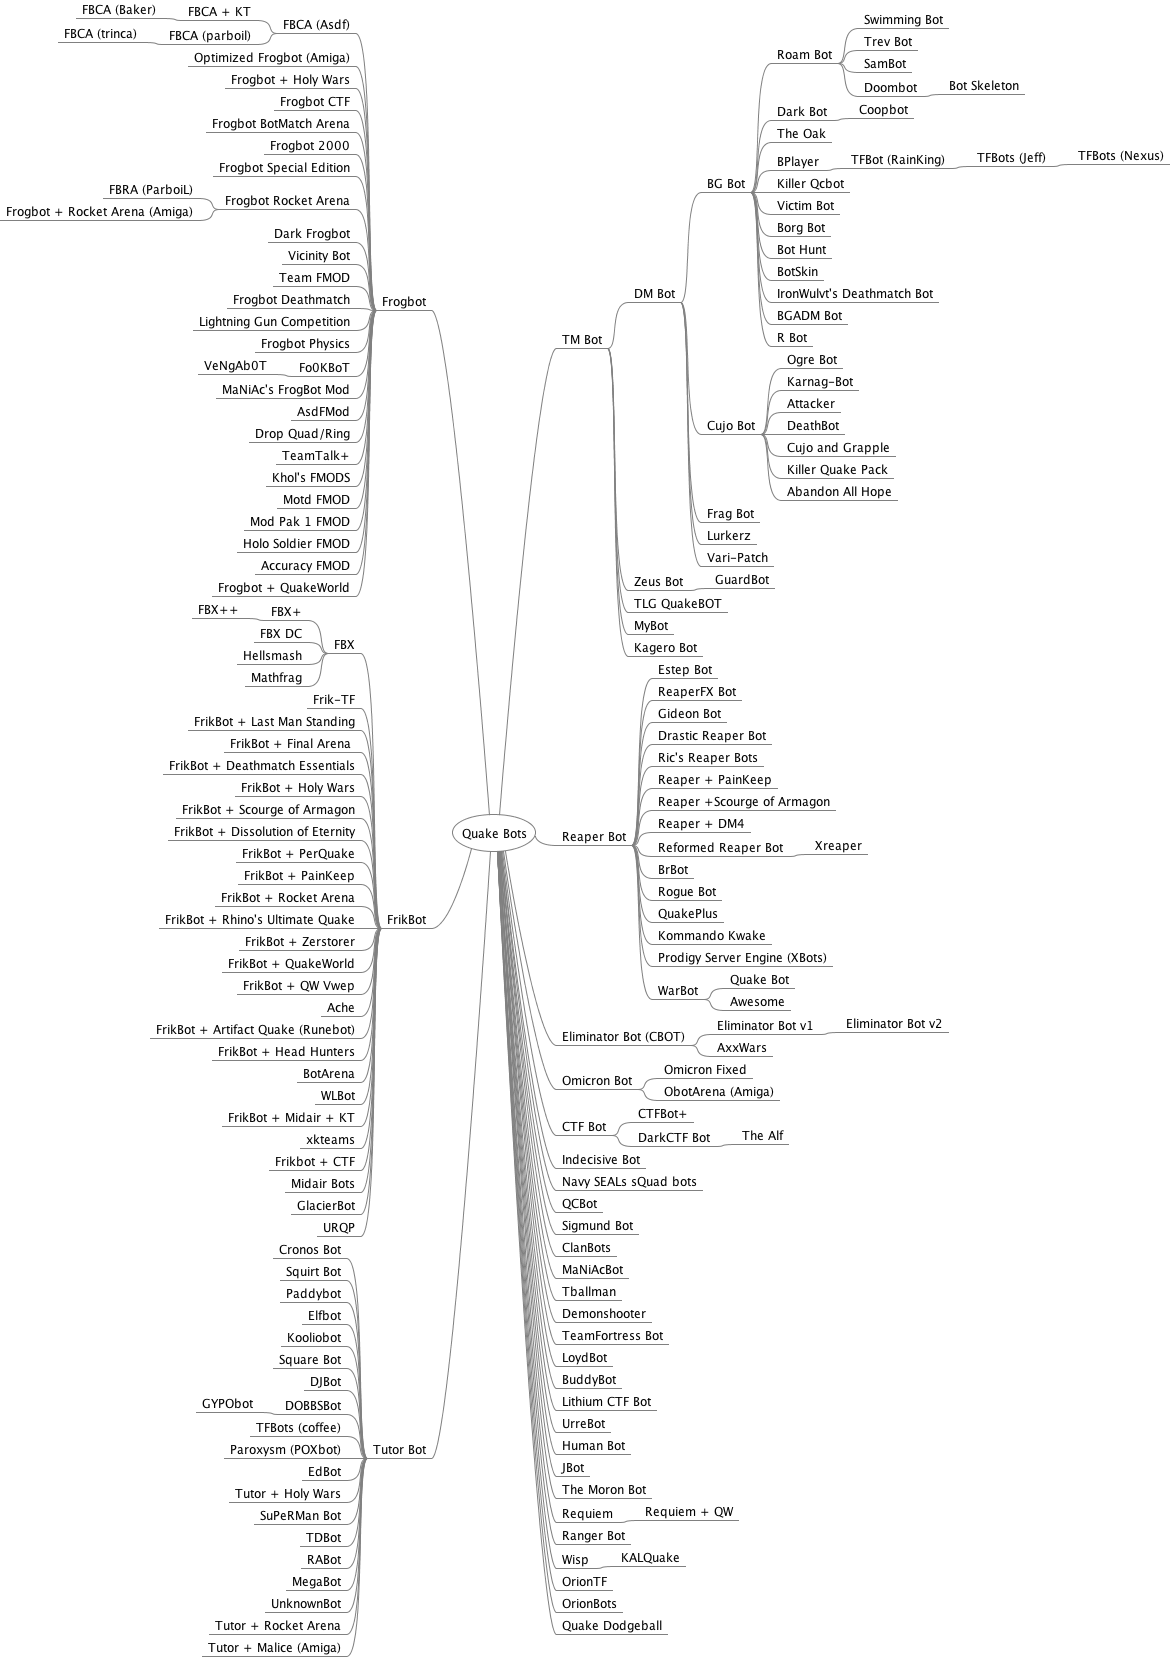
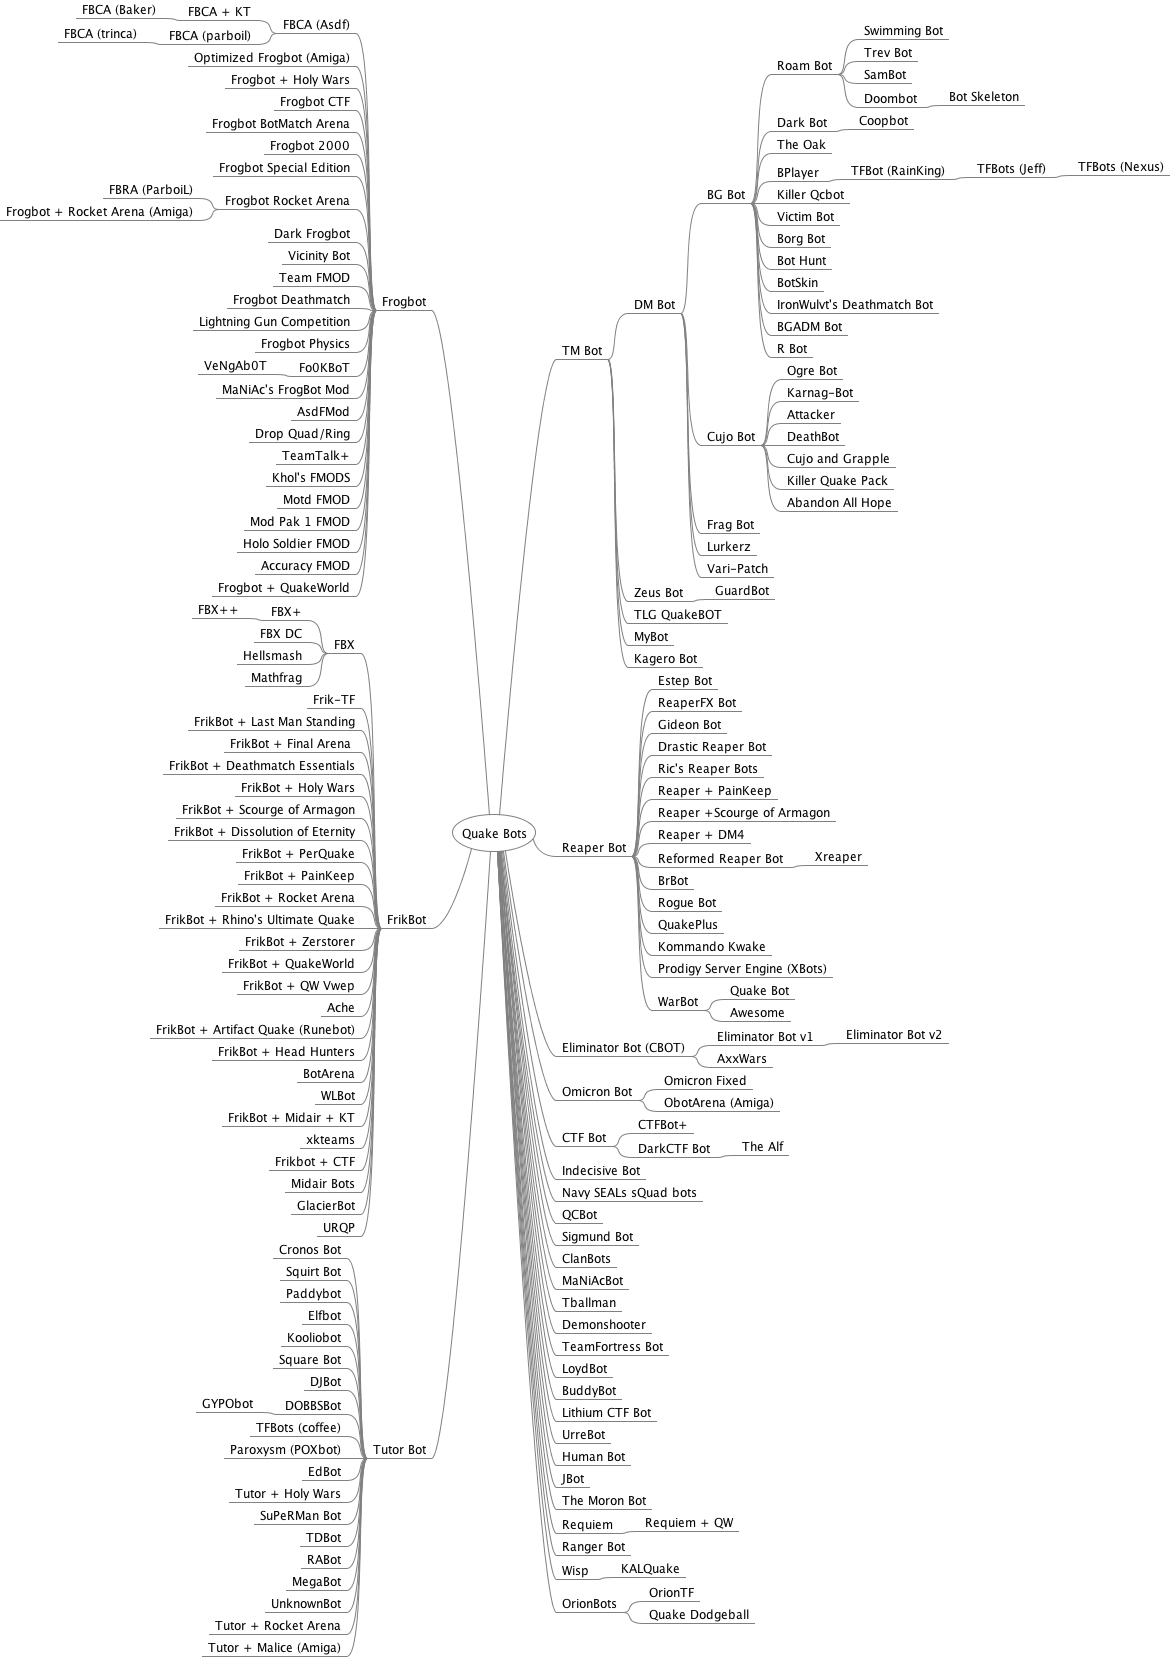
Updated list to mention bot name

diff --git a/research/mindmap/QuakeBots.mm b/research/mindmap/QuakeBots.mm
@@ -210,8 +210,9 @@
 <node CREATED="1622929965131" ID="ID_652083117" MODIFIED="1622929966278" POSITION="right" TEXT="Wisp">
 <node CREATED="1630615334346" ID="ID_1761106172" MODIFIED="1630615335059" TEXT="KALQuake"/>
 </node>
-<node CREATED="1630700547886" ID="ID_533652432" MODIFIED="1630700549450" POSITION="right" TEXT="OrionTF"/>
-<node CREATED="1625002699237" ID="ID_54039170" MODIFIED="1625002700141" POSITION="right" TEXT="OrionBots"/>
-<node CREATED="1626899953546" ID="ID_1539582619" MODIFIED="1626899954398" POSITION="right" TEXT="Quake Dodgeball"/>
+<node CREATED="1625002699237" ID="ID_54039170" MODIFIED="1625002700141" POSITION="right" TEXT="OrionBots">
+<node CREATED="1630700547886" ID="ID_533652432" MODIFIED="1630700549450" TEXT="OrionTF"/>
+<node CREATED="1626899953546" ID="ID_1539582619" MODIFIED="1626899954398" TEXT="Quake Dodgeball"/>
+</node>
 </node>
 </map>

diff --git a/README.md b/README.md
@@ -41,9 +41,9 @@ Alphabetical list of Quake bot names, authors, and local download links for all 
 Bot Name | Bot Author(s) | File
 --- | --- | ---
 Abandon All Hope (Cujo) | John McClure | [abnd2a.zip](bin/abnd2a.zip) ([txt](bin/abnd2a.txt))<br>[abandon2.zip](bin/abandon2.zip) ([txt](bin/abandon2.txt))<br>abandon1.zip
-Accuracy FMOD | Algirdas Kepezinskas aka "ZeCybEr" | accuracy.zip
-Ache | Athos Konkoran Kryn | [ache.zip](bin/ache.zip)
-Asdf's FMOD | Matt McChesney aka "asdf" | [asdfmod100.zip](bin/asdfmod100.zip)
+Accuracy FMOD (Frogbot) | Algirdas Kepezinskas aka "ZeCybEr" | accuracy.zip
+Ache (Frikbot) | Athos Konkoran Kryn | [ache.zip](bin/ache.zip)
+Asdf's FMOD (Frogbot) | Matt McChesney aka "asdf" | [asdfmod100.zip](bin/asdfmod100.zip)
 Attacker | Jonathan Geary | [attacker.zip](bin/attacker.zip) ([txt](bin/attacker.txt))
 Awesome (Warbot) | Brett King aka "BulkA" | [awesome.7z](bin/awesome.7z)
 AxxWars (Cujo, Eliminator) | Akke Monasso | [axxwars10.zip](bin/axxwars10.zip) ([txt](bin/axxwars10.txt))
@@ -52,7 +52,7 @@ BGBot | Robert DeFilippo III aka "Punisher" | [bgbot20a.zip](bin/bgbot20a.zip) (
 Borg Bot | Calvin Rien | [borg12.zip](bin/borg12.zip) ([txt](bin/borg12.txt))
 Bot Hunt | Douglas H. King aka "Sea4" | [bthnt10.zip](bin/bthnt10.zip) ([txt](bin/bthnt10.txt))
 Bot Player (BPlayer) | Wolfgang Lehrach aka "Wolf" | [bplayer2.zip](bin/bplayer2.zip)<br>bplayer1.zip ([txt](bin/bplayer1.txt))
-BotArena | Fabiano D. Amorim aka "Vegetous" | [botarena.zip](bin/botarena.zip)<br>[bt_scr.zip](bin/bt_scr.zip)
+BotArena (FrikBot) | Fabiano D. Amorim aka "Vegetous" | [botarena.zip](bin/botarena.zip)<br>[bt_scr.zip](bin/bt_scr.zip)
 BotSkin | Warren Cheung aka "WACko" | [btskn22.zip](bin/btskn22.zip) ([txt](bin/btskn22.txt))<br>botskn21.zip<br>[botskn20.zip](bin/botskn20.zip) ([txt](bin/botskn20.txt))<br>botskn19.zip<br>[botskn18.zip](bin/botskn18.zip) ([txt](bin/botskn18.txt))<br>botskn17.zip<br>botskn14.zip<br>botskn13.zip<br>botskn12.zip<br>[botskn10.zip](bin/botskn10.zip)
 BrBot | "DRaKuLL" | [brbot.7z](bin/brbot.7z) <br>[brbotqc.zip](bin/brbotqc.zip)<br>brbot.exe
 BuddyBot | "Parsec" | [bbot_b1.zip](bin/bbot_b1.zip) <br>[bbot_b11.zip](bin/bbot_b11.zip)
@@ -73,7 +73,7 @@ DM Bot | Nathaniel Gorham | [dmbot1.zip](bin/dmbot1.zip) ([txt](bin/dmbot1.txt))
 DOBBSBot | Stephen Dobbs | [dobbsbot15bwp.zip](bin/dobbsbot15bwp.zip)<br>dobbsbot15b.zip<br>[dobbsbot15a.zip](bin/dobbsbot15a.zip)
 Doombot | Roscoe A. Sincero aka "Legion" | [dmbt21b3.zip](bin/dmbt21b3.zip) ([txt](bin/dmbt21b3.txt))<br>dmbt21b1.zip<br>dmbt20b3.zip<br>dmbt20b2.zip<br>doombot.zip
 Drastic Reaper Bot | Mark Wheeler | [dreaper.zip](bin/dreaper.zip) ([txt](bin/dreaper.txt))<br>[dreaper1e.zip](bin/dreaper1e.zip)
-Drop Quad/Ring (FMOD) | Brian Mathiasen aka "EraZoR" | [quadring.zip](bin/quadring.zip)
+Drop Quad/Ring (Frogbot) | Brian Mathiasen aka "EraZoR" | [quadring.zip](bin/quadring.zip)
 EdBot | Edward Dawson aka "HotCakes" | [edbot0-04.zip](bin/edbot0-04.zip) <br>[edbotsrc0-04.zip](bin/edbotsrc0-04.zip)
 ELFBOt | "SkinSki" aka "MauveBib" | [elfbot.zip](bin/elfbot.zip)
 Eliminator Bot (CBot) | Cameron B. Newham | [elim14.zip](bin/elim14.zip) ([txt](bin/elim14.txt))<br>[elimsrc.zip](bin/elimsrc.zip)<br>elim13.zip<br>[elim12.zip](bin/elim12.zip) ([txt](bin/elim12.txt))<br>[elimtst1.zip](bin/elimtst1.zip) <br>[elim11.zip](bin/elim11.zip) ([txt](bin/elim11.txt))<br>elim10.zip ([txt](bin/elim10.txt))
@@ -123,44 +123,44 @@ GlacierBot | Rainier Rapera aka "IceDagger" | [gb027b.zip](bin/gb027b.zip)<br>gb
 GuardBot | Peter van Wingerden | [grdbot23.zip](bin/grdbot23.zip) ([txt](bin/grdbot23.txt))<br>grdbot13.zip<br>guardbot.zip
 GYPObot | Stephen Dobbs | [gypobot.zip](bin/gypobot.zip)
 Hellsmash | Khin Mannering aka "Dr. Shadowborg" | [qsr04apatch1.7z](bin/qsr04apatch1.7z)<br>[qsr04a.7z](bin/qsr04a.7z)<br>[qsrbeta3a.zip](bin/qsrbeta3a.zip)<br>[qsrbeta3a_src.zip](bin/qsrbeta3a_src.zip)<br>[qsrbeta3x.zip](bin/qsrbeta3x.zip)<br>[qsrbeta3.zip](bin/qsrbeta3.zip)<br>qsrbeta1b.zip<br>qsrbeta1.zip
-Holo Soldier FMOD | Algirdas Kepezinskas aka "ZeCybEr" | holomod.zip
+Holo Soldier FMOD (Frogbot) | Algirdas Kepezinskas aka "ZeCybEr" | holomod.zip
 Human Bot (Hbot) | Jeffrey Lee | [hbot.zip](bin/hbot.zip)
 Indecisive Bot (Gyrobot) | Aaron Logue aka "Gyro Gearloose" | [gyrobot.zip](bin/gyrobot.zip) ([txt](bin/gyrobot.txt))<br>[gbotsrc.zip](bin/gbotsrc.zip)
 IronWulvt's Deathmatch Bot | Ben Garrod aka "IronWulvt" | [iwbot21.zip](bin/iwbot21.zip) ([txt](bin/iwbot21.txt))<br>iwbot20.zip<br>[iwbot16.zip](bin/iwbot16.zip)<br>iwbot15.zip<br>[iwbot1.zip](bin/iwbot1.zip) ([txt](bin/iwbot1.txt))
 JBot | Jeffrey Lee | [jbot.zip](bin/jbot.zip)
 Kagero Bot | "The Kwanster" | [kagero.zip](bin/kagero.zip)
-KALQuake | Kenneth Livingston aka "-=CT=-KALWeb " | [kal_qk-p.zip](bin/kal_qk-p.zip) ([txt](bin/kal_qk-p.txt))<br>[kal_qk-s.zip](bin/kal_qk-s.zip) ([txt](bin/kal_qk-s.txt))
+KALQuake (Wisp) | Kenneth Livingston aka "-=CT=-KALWeb " | [kal_qk-p.zip](bin/kal_qk-p.zip) ([txt](bin/kal_qk-p.txt))<br>[kal_qk-s.zip](bin/kal_qk-s.zip) ([txt](bin/kal_qk-s.txt))
 KarNag Bot | Ken Madlener | [knbot45.zip](bin/knbot45.zip) ([txt](bin/knbot45.txt))<br>[knbot03.zip](bin/knbot03.zip)
-Khol's FMODS | "Khol" | kfmod.zip
+Khol's FMODS (Frogbot) | "Khol" | kfmod.zip
 Killer Qcbot | William  Ravaine aka "Killer-Sub" | [kqcbots095b.zip](bin/kqcbots095b.zip) ([txt](bin/kqcbots095b.txt))<br>kqcbotsource.zip
-Killer Quake Pack (KQP) | Howard Roy aka "Solo" | [kqp220z.zip](bin/kqp220z.zip) ([txt](bin/kqp220z.txt))<br>[kqp210z.zip](bin/kqp210z.zip)<br>[kqp200z.zip](bin/kqp200z.zip) ([txt](bin/kqp200z.txt))<br>[kqp100.zip](bin/kqp100.zip)<br>[killer90.zip](bin/killer90.zip) ([txt](bin/killer90.txt))<br>killer87.zip<br>killer86b.zip<br>killer86.zip<br>[killer85.zip](bin/killer85.zip)<br>killer80.zip
-Kommando Kwake | Andreas M. and Stefan M. | kok220.zip<br>kok210.zip<br>kok2.zip
+Killer Quake Pack (KQP) (Zeus, Cujo) | Howard Roy aka "Solo" | [kqp220z.zip](bin/kqp220z.zip) ([txt](bin/kqp220z.txt))<br>[kqp210z.zip](bin/kqp210z.zip)<br>[kqp200z.zip](bin/kqp200z.zip) ([txt](bin/kqp200z.txt))<br>[kqp100.zip](bin/kqp100.zip)<br>[killer90.zip](bin/killer90.zip) ([txt](bin/killer90.txt))<br>killer87.zip<br>killer86b.zip<br>killer86.zip<br>[killer85.zip](bin/killer85.zip)<br>killer80.zip
+Kommando Kwake (Reaper) | Andreas M. and Stefan M. | kok220.zip<br>kok210.zip<br>kok2.zip
 Kooliobot | Robert de Heus aka "Koolio" | [kooliobot.zip](bin/kooliobot.zip)<br>koolio.zip
-Lightning Gun Competition (LGC) | Phil Romov aka "peheyele" | [lgc3.zip](bin/lgc3.zip)<br>[lgc2c.zip](bin/lgc2c.zip)<br>[lgc2.zip](bin/lgc2.zip)<br>[lgc.zip](bin/lgc.zip)
+Lightning Gun Competition (LGC) (Frogbot) | Phil Romov aka "peheyele" | [lgc3.zip](bin/lgc3.zip)<br>[lgc2c.zip](bin/lgc2c.zip)<br>[lgc2.zip](bin/lgc2.zip)<br>[lgc.zip](bin/lgc.zip)
 Lithium CTF Bot | Juan Ignacio Rava aka "Johnny" | [lith091c.zip](bin/lith091c.zip)
 LoydBot | Loyd aka "Juninho" | [lbotv10.zip](bin/lbotv10.zip)
 Lurkerz | Ron Goff and Jon Little | [lrkrz_01.zip](bin/lrkrz_01.zip) ([txt](bin/lrkrz_01.txt))
 MaNiAc's FrogBot MOD (lag simulation) | Michael Turitzin aka "MaNiAc" | [lagmod.zip](bin/lagmod.zip)
 MaNiAcBot | Michael Turitzin aka "MaNiAc" | [maniacbt.zip](bin/maniacbt.zip) ([txt](bin/maniacbt.txt))<br>maniacbt12.zip<br>fbmod.zip
-Mathfrag | Khin Mannering aka "Dr. Shadowborg" | [mlx20b.zip](bin/mlx20.zip)
+Mathfrag (Frikbot) | Khin Mannering aka "Dr. Shadowborg" | [mlx20b.zip](bin/mlx20.zip)
 MegaBot | "Vic" | [megabot.zip](bin/megabot.zip)
 Midair Bots | Benjamin Darling aka "Electro" and "Vomit" | [midair_qwbot.rar](bin/midair_qwbot.rar)<br>[midairbots_all.zip](bin/midairbots_all.zip)<br>[midairbots.zip](bin/midairbots.zip)
-Mod Pak 1 FMOD | "Neophyte" | mpak1v12.zip
-Motd FMOD | Algirdas Kepezinskas aka "ZeCybEr" | motd.zip
+Mod Pak 1 FMOD (Frogbot) | "Neophyte" | mpak1v12.zip
+Motd FMOD (Frogbot) | Algirdas Kepezinskas aka "ZeCybEr" | motd.zip
 MyBot | Stephen Vanterpool | [mybot16.zip](bin/mybot16.zip) ([txt](bin/mybot16.txt))<br>[mybot13a.zip](bin/mybot13a.zip) ([txt](bin/mybot13a.txt))<br>[mybot12.zip](bin/mybot12.zip) ([txt](bin/mybot12.txt))<br>[mybot11.zip](bin/mybot11.zip) ([txt](bin/mybot11.txt))<br>[mybot.zip](bin/mybot.zip) ([txt](bin/mybot.txt))
-Navy SEALs sQuad bots | William van der Sterren | [nseal201.zip](bin/nseal201.zip)<br>sqdbt201.zip
-ObotArena (Amiga) | Christian Michael aka "surgeon" | [obotarena.lha](bin/obotarena.lha)
+Navy SEALs (Squad Bots) | William van der Sterren | [nseal201.zip](bin/nseal201.zip)<br>sqdbt201.zip
+ObotArena (Amiga) (Omicron) | Christian Michael aka "surgeon" | [obotarena.lha](bin/obotarena.lha)
 Ogre Bot | "Lava Man" | [ogrebot.zip](bin/ogrebot.zip) ([txt](bin/ogrebot.txt))
 Omicron Bot | Jan Paul van Waveren aka "Mr. Elusive" and Miklos de Rijk aka "H2SO4" | [obots102.zip](bin/obots102.zip)<br>[obots102.sit](bin/obots102.sit)<br>[obots101.zip](bin/obots101.zip)<br>obots101.sit<br>obots101.hqx<br>obots100.zip<br>obots100.sit
 Omicron Fixes | Joel Baxter aka "Johnny Law" | [obots102-fixed.zip](bin/obots102-fixed.zip)
-Optimized Frogbot qboost3 (Amiga) | Christian Michael aka "surgeon" | [frogbot.lha](bin/frogbot.lha) ([txt](bin/frogbot.txt))
-Orion Team Fortress (OrionTF) | "Orion" | [oriontf_beta4.zip](bin/oriontf_beta4.zip)<br>[oriontf_beta3.zip](bin/oriontf_beta3.zip)<br>[oriontf_beta2.zip](bin/oriontf_beta2.zip)<br>[oriontf.zip](bin/oriontf.zip)
+Optimized Frogbot (Amiga) | Christian Michael aka "surgeon" | [frogbot.lha](bin/frogbot.lha) ([txt](bin/frogbot.txt))
+Orion Team Fortress (OrionTF) (OrionBots) | "Orion" | [oriontf_beta4.zip](bin/oriontf_beta4.zip)<br>[oriontf_beta3.zip](bin/oriontf_beta3.zip)<br>[oriontf_beta2.zip](bin/oriontf_beta2.zip)<br>[oriontf.zip](bin/oriontf.zip)
 OrionBots | "Orion" | [orionbots4rel.zip](bin/orionbots4rel.zip)<br>[orionbots_v2.zip](bin/orionbots_v2.zip)<br>[orionbots_qc_beta5.zip](bin/orionbots_qc_beta5.zip)
 Paddybot | Patrick Stimson aka "sniper" | paddybot02.zip<br>paddybot.zip
-Paroxysm (POXbot) | Frank Condello aka "pOx" | [paroxysm.zip](bin/paroxysm.zip)<br>[pox120b.zip](bin/pox120b.zip)<br>[pxsrc120.zip](bin/pxsrc120.zip)<br>[pox111b2.zip](bin/pox111b2.zip)<br>[pox111b.zip](bin/pox111b.zip)<br>[pox102b.zip](bin/pox102b.zip)<br>[pxqc102b.zip](bin/pxqc102b.zip)<br>[pox101bu.zip](bin/pox101bu.zip)<br>[pox_100.zip](bin/pox_100.zip)<br>[poxqc100.zip](bin/poxqc100.zip)<br>[pox_04b2.zip](bin/pox_04b2.zip)
-Prodigy Server Engine (XBots) | David Rodgers | prodigy35b1.zip
+Paroxysm (POXbot) (Tutorbot) | Frank Condello aka "pOx" | [paroxysm.zip](bin/paroxysm.zip)<br>[pox120b.zip](bin/pox120b.zip)<br>[pxsrc120.zip](bin/pxsrc120.zip)<br>[pox111b2.zip](bin/pox111b2.zip)<br>[pox111b.zip](bin/pox111b.zip)<br>[pox102b.zip](bin/pox102b.zip)<br>[pxqc102b.zip](bin/pxqc102b.zip)<br>[pox101bu.zip](bin/pox101bu.zip)<br>[pox_100.zip](bin/pox_100.zip)<br>[poxqc100.zip](bin/poxqc100.zip)<br>[pox_04b2.zip](bin/pox_04b2.zip)
+Prodigy Server Engine (XBots) (Reaper) | David Rodgers | prodigy35b1.zip
 Quake Bot (QBot) | Muhammad Hidayat Bin Sman aka "Grinder" | [qbot11.zip](bin/qbot11.zip) ([txt](bin/qbot11.txt))
-Quake Dodgeball | Brendan aka "Trickle" and "Orion" | [quake_dodgeball_v1.2.6.zip](bin/quake_dodgeball_v1.2.6.zip)<br>[db_src_2016.zip](bin/db_src_2016.zip)<br>[quake_dodgeball_1.1.zip](bin/quake_dodgeball_1.1.zip)
+Quake Dodgeball (OrionBots) | Brendan aka "Trickle" and "Orion" | [quake_dodgeball_v1.2.6.zip](bin/quake_dodgeball_v1.2.6.zip)<br>[db_src_2016.zip](bin/db_src_2016.zip)<br>[quake_dodgeball_1.1.zip](bin/quake_dodgeball_1.1.zip)
 QuakePlus | Alexander Vinnikova aka "plus" | [qplus.zip](bin/qplus.zip) ([txt](bin/qplus.txt))
 R Bot | Ross Johnson aka "ColdKill" | [rbot70.zip](bin/rbot70.zip) ([txt](bin/rbot70.txt))<br>[rbot20.zip](bin/rbot20.zip) ([txt](bin/rbot20.txt))<br>rbot.zip
 RABot | Rodrigo Marx aka "Shooter" | [mwrrabot222cl.zip](bin/mwrrabot222cl.zip)<br>[rabot.zip](bin/rabot.zip)
@@ -186,14 +186,14 @@ Target Player Place (Place Bot) | "Vengence" | [place2.zip](bin/place2.zip) ([tx
 Tballman | "Mother" | [tballman.zip](bin/tballman.zip) ([txt](bin/tballman.txt))
 TD-BOT | ? | tdbot1_0.zip
 TD2 Mech Bot | ? | [mech.zip](bin/mech.zip)
-Team FMOD | "Shelob" | stfm10.zip
+Team FMOD (Frogbot) | "Shelob" | stfm10.zip
 Team Fortress (TFBot) | Jeff aka "wattsup" | [tfbot077.zip](bin/tfbot077.zip)<br>[tfbot076.zip](bin/tfbot076.zip)
 Team Fortress (TFBot) | Joern Strombach aka "Nexus" | [tfbot080.zip](bin/tfbot080.zip)
 Team Fortress (TFBot) | Wolfgang Lehrach aka "RainKing" | tfb-v07.zip
 Team Fortress + Frikbot (Frik-TF) | Raymond Martineau | friktf-051901.zip<br>[friktf-092800.zip](bin/friktf-092800.zip)<br>[friktf-092800-src.zip](bin/friktf-092800-src.zip)<br>friktf-092800-qw.zip<br>friktf-092800.tar.gz<br>[friktf-051800.zip](bin/friktf-051800.zip)<br>[friktf-051800-qw.zip](bin/friktf-051800-qw.zip)<br>[friktf-051800-src.zip](bin/friktf-051800-src.zip)<br>frik-tf.zip<br>[friktfqw.zip](bin/friktfqw.zip)
 Team Fortress + Tutor | Darryl Atchison aka "coffee" | [tf_bots07.zip](bin/tf_bots07.zip)
 Team Fortress Bot  | Valery Schedrin aka "Forthpick" | [teamfbot.zip](bin/teamfbot.zip)
-TeamTalk+ (FMOD) | Algirdas Kepezinskas aka "ZeCybEr" | [ttalk.zip](bin/ttalk.zip)
+TeamTalk+ FMOD (Frogbot) | Algirdas Kepezinskas aka "ZeCybEr" | [ttalk.zip](bin/ttalk.zip)
 The Alf | Bjorn-Erik Solli aka "Jack O. Trade" | nnctf.zip<br>nnsource.zip
 The Lone Gunmen QuakeBOT (Larva) | James Cullen aka "Jaymz" and Chris Cullen aka "Incubus" | [tlgbot.zip](bin/tlgbot.zip) ([txt](bin/tlgbot.txt))
 The Moron Bot | Rich Whitehouse aka "thefatal" | [mbr1.zip](bin/mbr1.zip)<br>[mbr1_src.zip](bin/mbr1_src.zip)
@@ -205,17 +205,17 @@ Tutor Bot + Holy Wars | Connor Caple aka "RiEvEr" | [holy_tb.zip](bin/holy_tb.zi
 Tutor Bot + Malice (Amiga) | Christian Michael aka "surgeon" | [malicemod.lha](bin/malicemod.lha) ([txt](bin/malicemod.txt))
 Tutor Bot + Rocket Arena | Connor Caple aka "RiEvEr" | [qrabot002.zip](bin/qrabot002.zip)<br>qrabot001.zip
 Tutor Bot | Darryl Atchison aka "coffee" | [tutor.zip](bin/tutor.zip)
-Ultimate Regular Quake Patch (URQP) | Matthias Buecher aka "Maddes" | [urqp106a.zip](bin/urqp106a.zip)<br>[urqp106.zip](bin/urqp106.zip)<br>[urqp105.zip](bin/urqp105.zip)<br>[urqp104a.zip](bin/urqp104a.zip)
+Ultimate Regular Quake Patch (URQP) (Frikbot) | Matthias Buecher aka "Maddes" | [urqp106a.zip](bin/urqp106a.zip)<br>[urqp106.zip](bin/urqp106.zip)<br>[urqp105.zip](bin/urqp105.zip)<br>[urqp104a.zip](bin/urqp104a.zip)
 UnknownBot | Brian L. | [ubot14.zip](bin/ubot14.zip)
 UrreBot | Marko Permanto aka "Urre" | [urrebot20050820.zip](bin/urrebot20050820.zip)<br>[urrebot20050813.zip](bin/urrebot20050813.zip)<br>[wayboxedit20050813.zip](bin/wayboxedit20050813.zip)
-Vari-Patch | Chris Millward | var19.zip ([txt](bin/var19.txt))<br>var18.zip ([txt](bin/var18.txt))<br>var17.zip<br>var14.zip ([txt](bin/var14.txt))
+Vari-Patch (DMBot) | Chris Millward | var19.zip ([txt](bin/var19.txt))<br>var18.zip ([txt](bin/var18.txt))<br>var17.zip<br>var14.zip ([txt](bin/var14.txt))
 VeNgAb0T | "WuPP" | [venga.zip](bin/venga.zip)
 Vicinity Bot | "Black" | vicinityqwprogs.zip<br>vicinitymodels.zip<br>vicinitysource.zip
 Victim Bot | Tony Tang aka "The TangMaster" | [vbot11.zip](bin/vbot11.zip) ([txt](bin/vbot11.txt))<br>[vbot1.zip](bin/vbot1.zip)
 WarBot | Muhammad Hidayat Bin Sman aka "Grinder" | warbot2.zip ([txt](bin/warbot2.txt))<br>[warbot14.zip](bin/warbot14.zip)<br>warbot14_dat.zip<br>warbot14_pak.zip<br>warbt13a.zip ([txt](bin/warbt13a.txt))<br>warbotpk.zip
 Wisp | Iikka Paavolainen | [wisp.zip](bin/wisp.zip) ([txt](bin/wisp.txt))
 WLBot | Kualker Koisa aka "Matador" | [wlbot21.7z](bin/wlbot21.7z)<br>wlbot1.9.zip
-XKteams | Mark | xkteams2.zip<br>xkteams1705.zip<br>xkteams1705s.zip
+XKteams (Frikbot) | Mark | xkteams2.zip<br>xkteams1705.zip<br>xkteams1705s.zip
 Xreaper | Ruud Heemskerk aka "Mephisto" | [xreaperb130.zip](bin/xreaperb130.zip)<br>[xreaperb130_unoff.zip](bin/xreaperb130_unoff.zip)
 Zeus Bot | Jonathan E. Wright aka "Nelno the Amoeba" | [zeus205s.zip](bin/zeus205s.zip) ([txt](bin/zeus205s.txt))<br>[zeus205.zip](bin/zeus205.zip) ([txt](bin/zeus205.txt))<br>[zeus_src.zip](bin/zeus_src.zip) ([txt](bin/zeus_src.txt))<br>[zeus2042.zip](bin/zeus2042.zip)<br>zeus2041.zip<br>[zeus204.zip](bin/zeus204.zip)<br>[zeus203b.zip](bin/zeus203b.zip) ([txt](bin/zeus203b.txt))<br>zeus202b.zip ([txt](bin/zeus202b.txt))<br>zeus201.zip<br>zeus20.zip<br>[zeus10.zip](bin/zeus10.zip) ([txt](bin/zeus10.txt))
 
